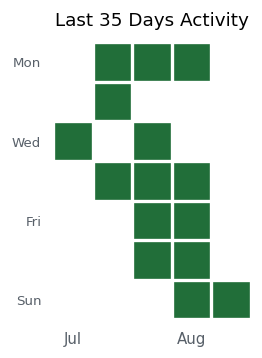
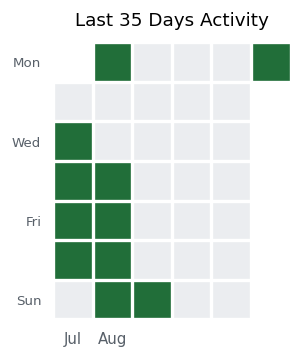
Lab Entry: 2026-08-24

diff --git a/README.md b/README.md
@@ -1,10 +1,10 @@
-# 🏃 平均週 2.7 回でつーがく中！
+# 🏃 平均週 2.4 回でつーがく中！
 <p align="center">
   <img src="./monthly_report.png" alt="Attendance Calendar">
 </p>
 
 ___
-*最終更新: 2026-08-09*
+*最終更新: 2026-08-24*
 
 ## セットアップ
 
